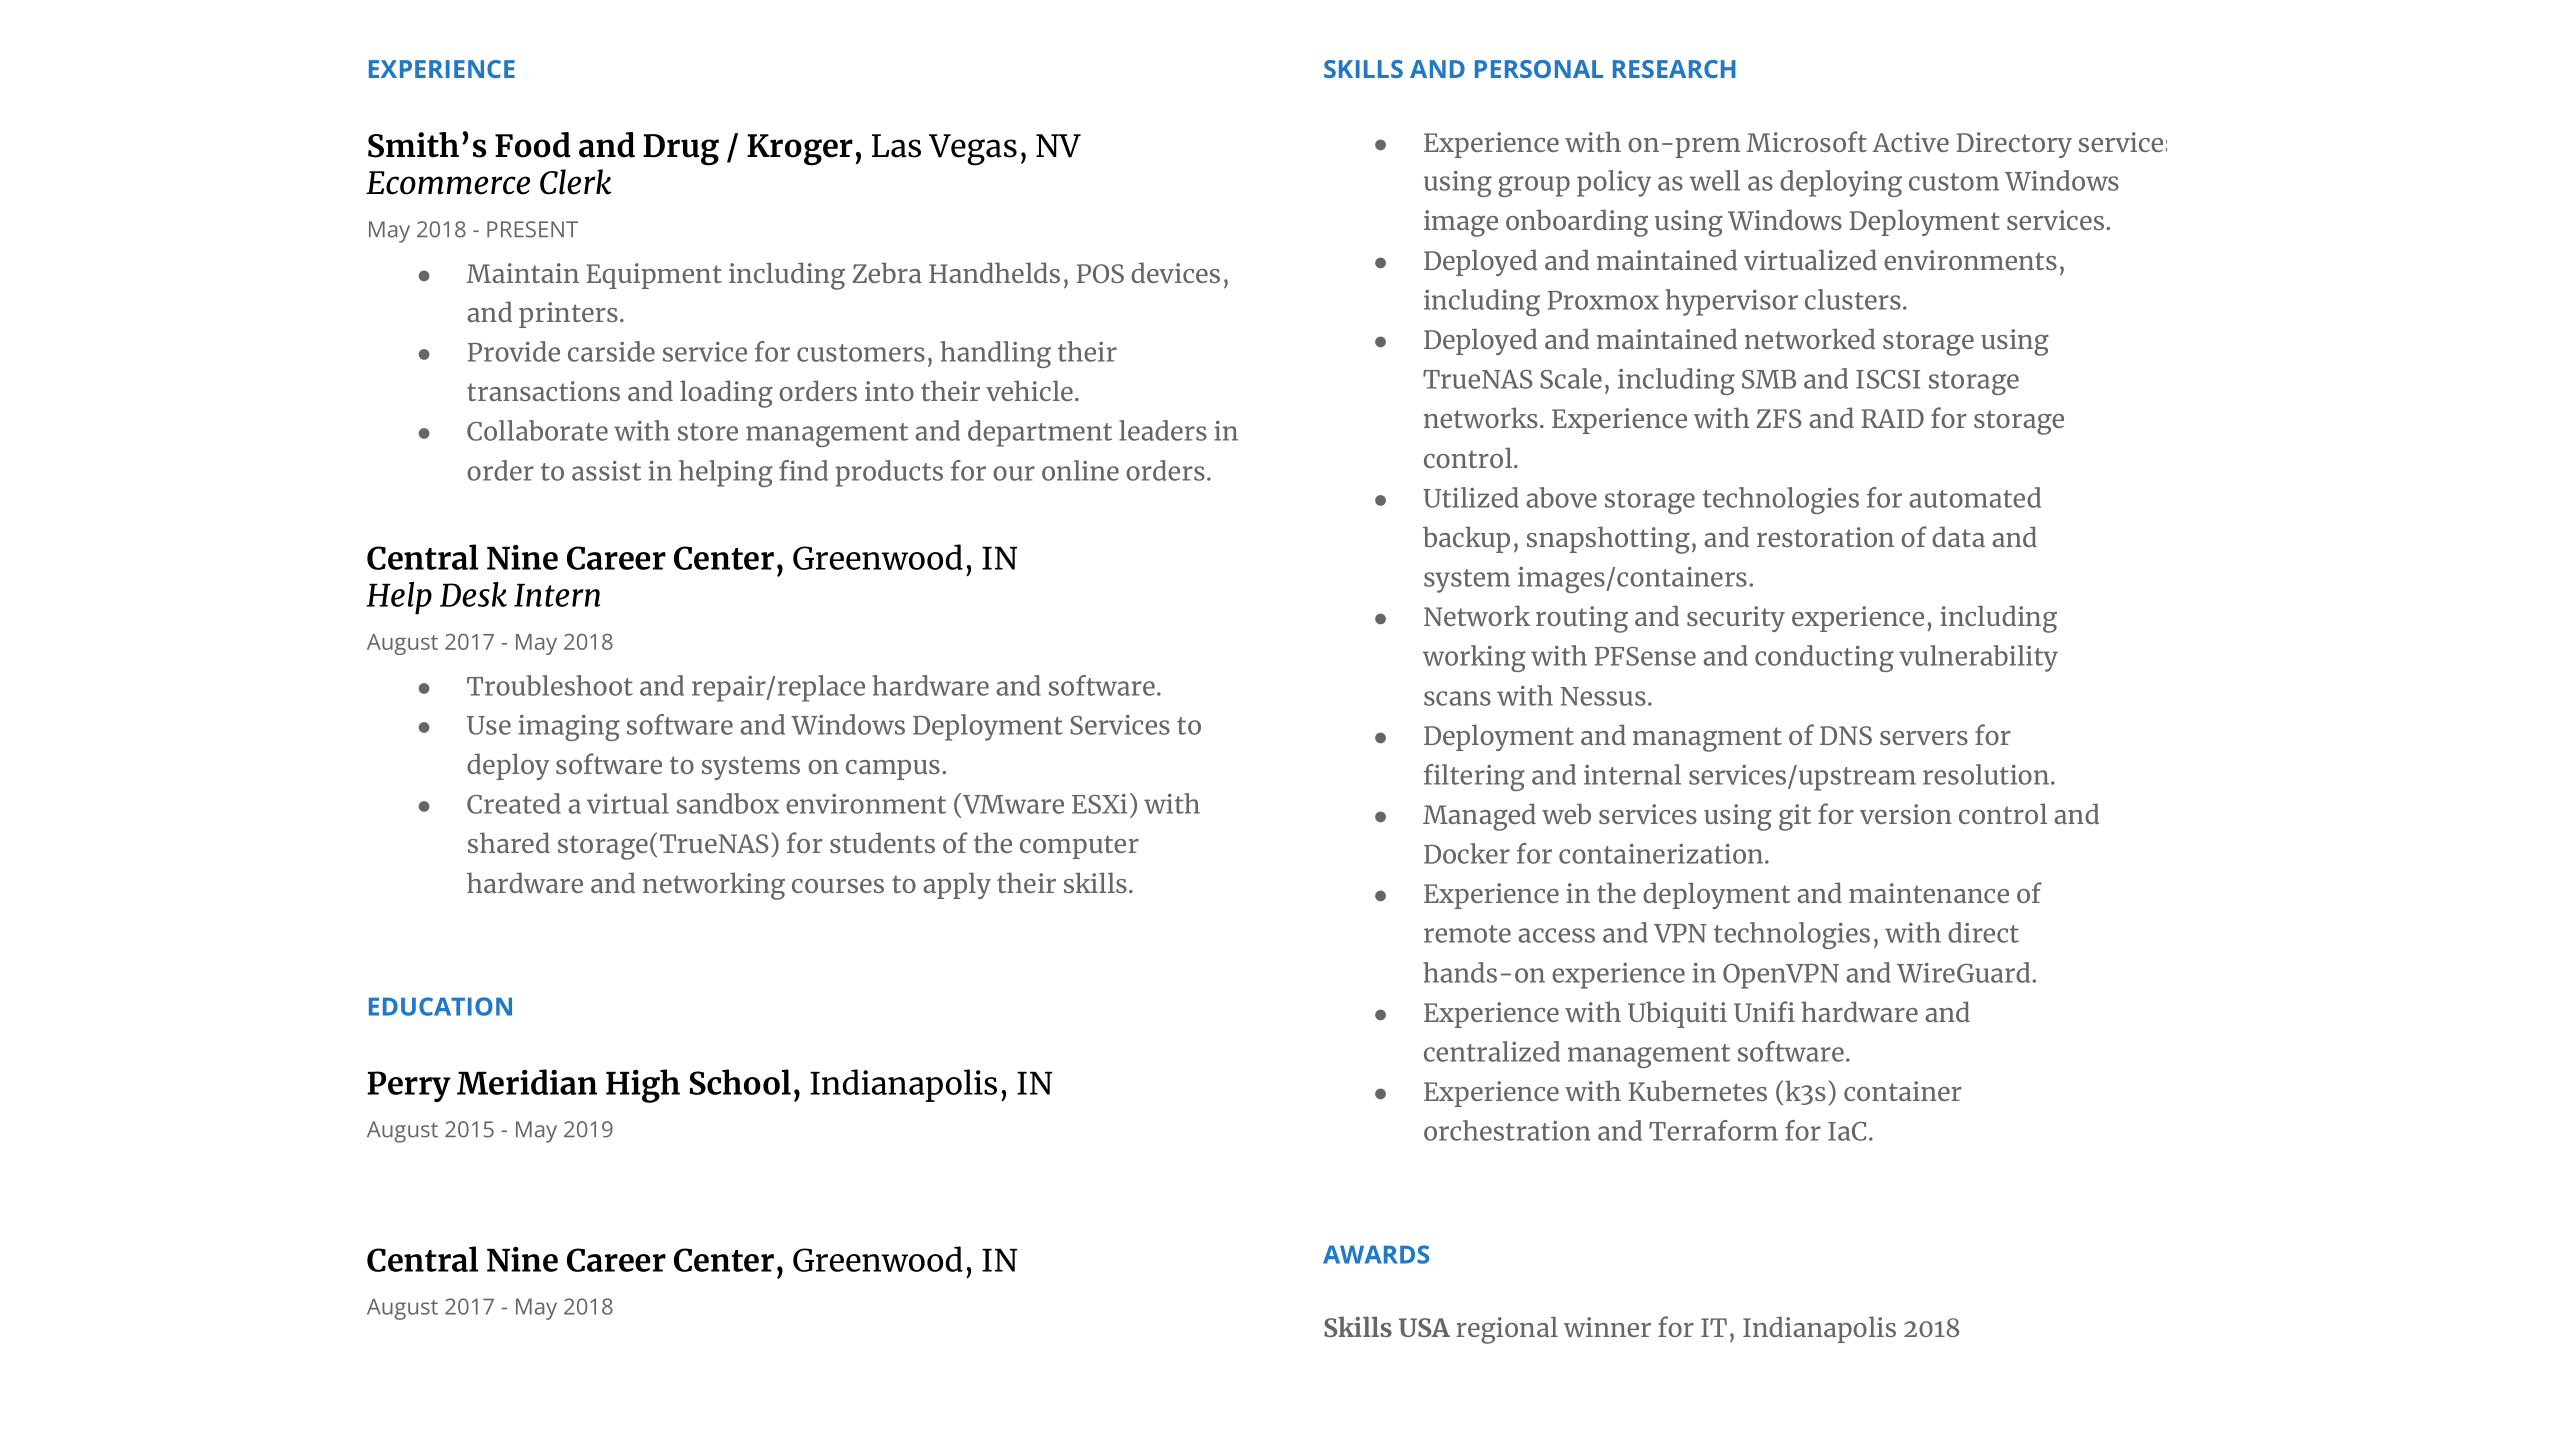
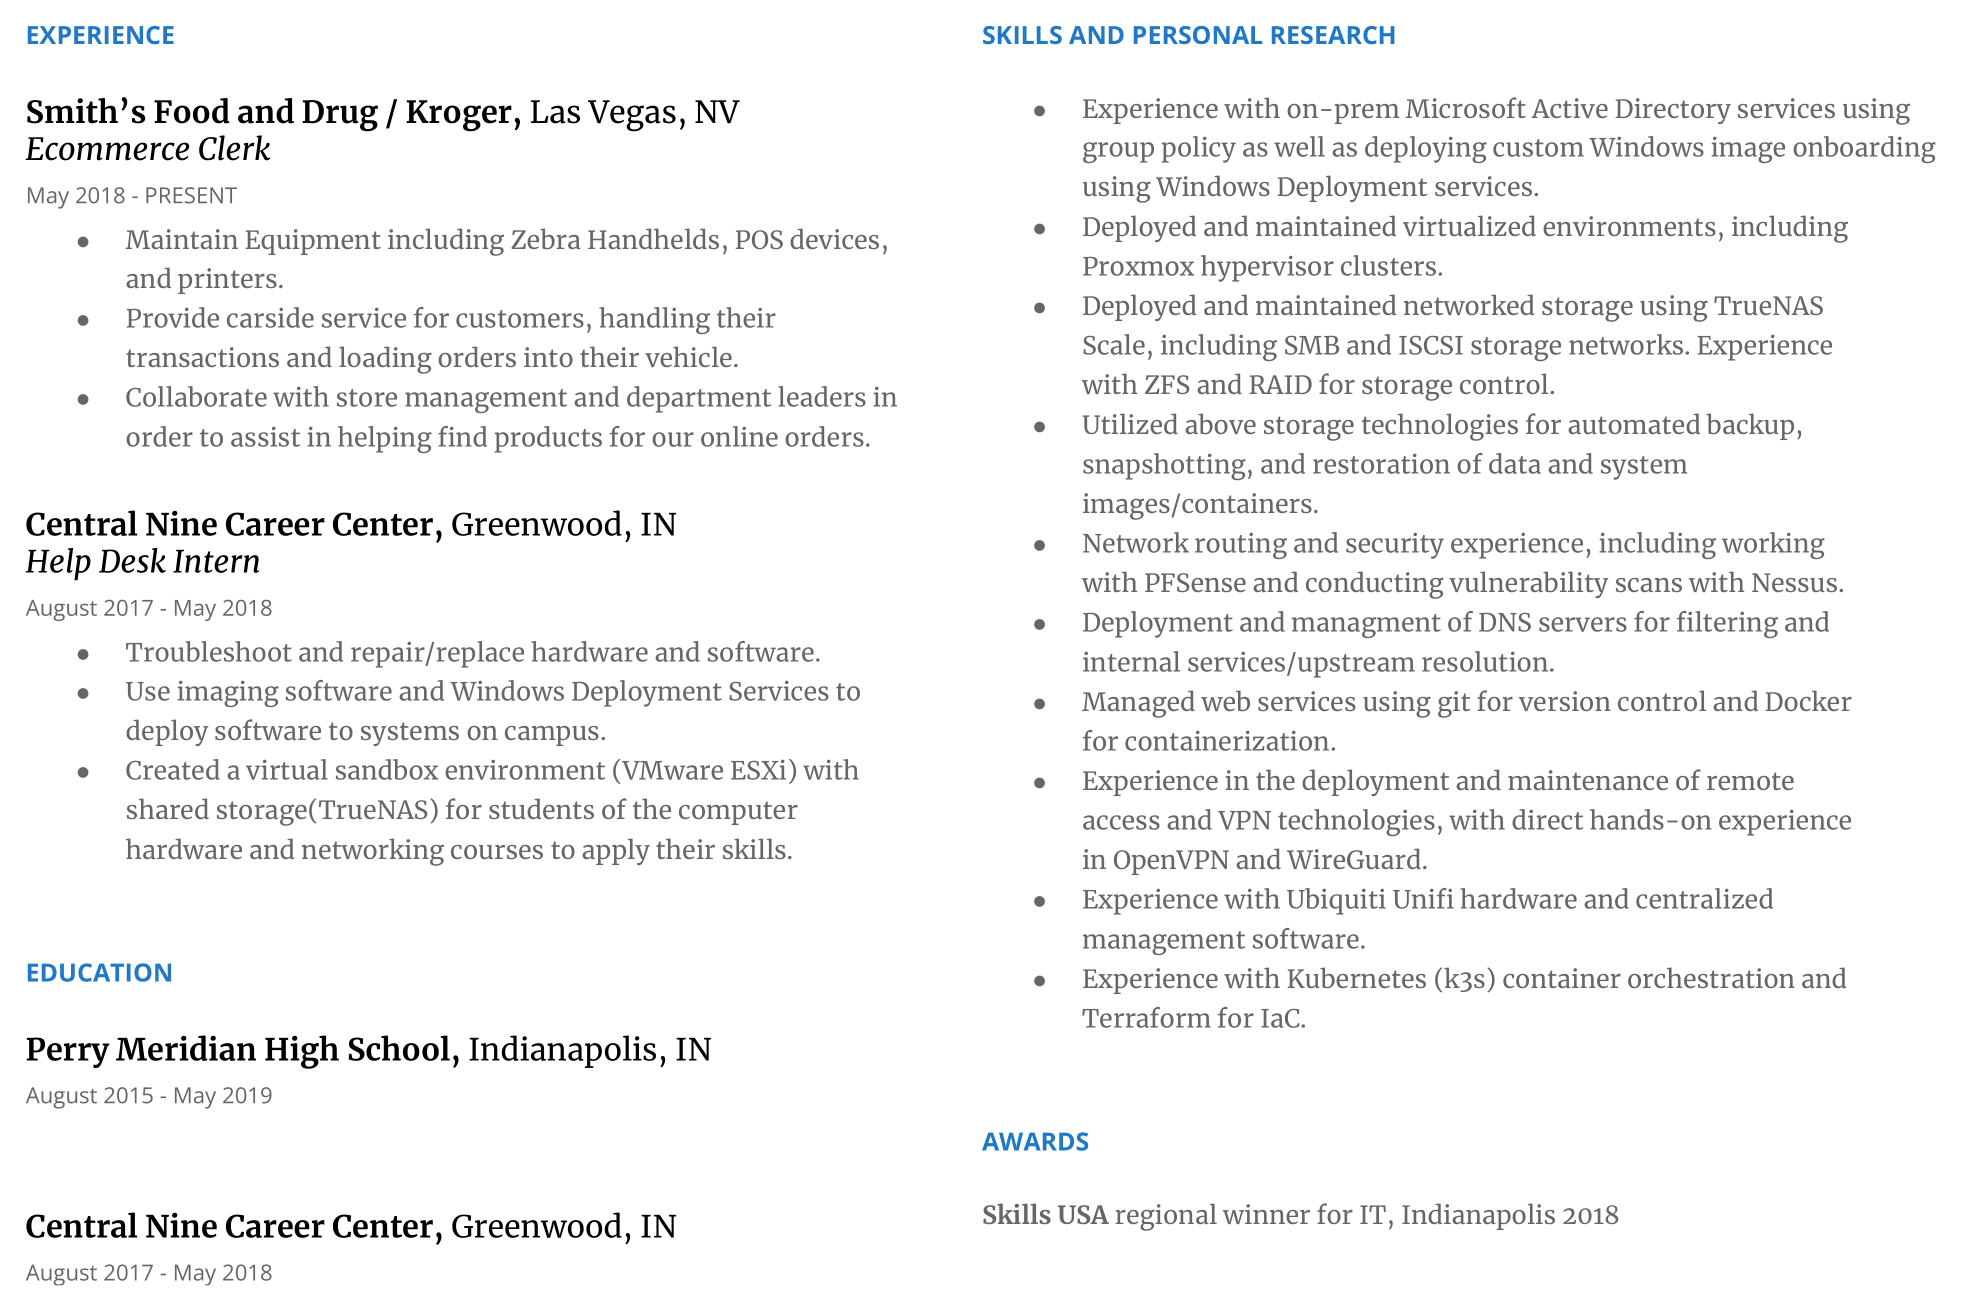
Responsiveness

diff --git a/index.html b/index.html
@@ -76,7 +76,8 @@
 
     <div id="resume" style="height: 100vh;display: flex; align-items: center; justify-content: center;">
       <picture style="height: 100vh;display: flex; align-items: center; justify-content: center;">
-        <source srcset="assets/img/Resume-Vertical.png" media="(max-width: 600px)">
+        <source srcset="assets/img/Resume-Vertical.png" media="(max-width: 700px)">
+        <source srcset="assets/img/Resume-Medium.png" media="(max-width: 1199px)">
         <img src="assets/img/Resume.png"  width="95%" alt="Resume">
       </picture>
     </div>
